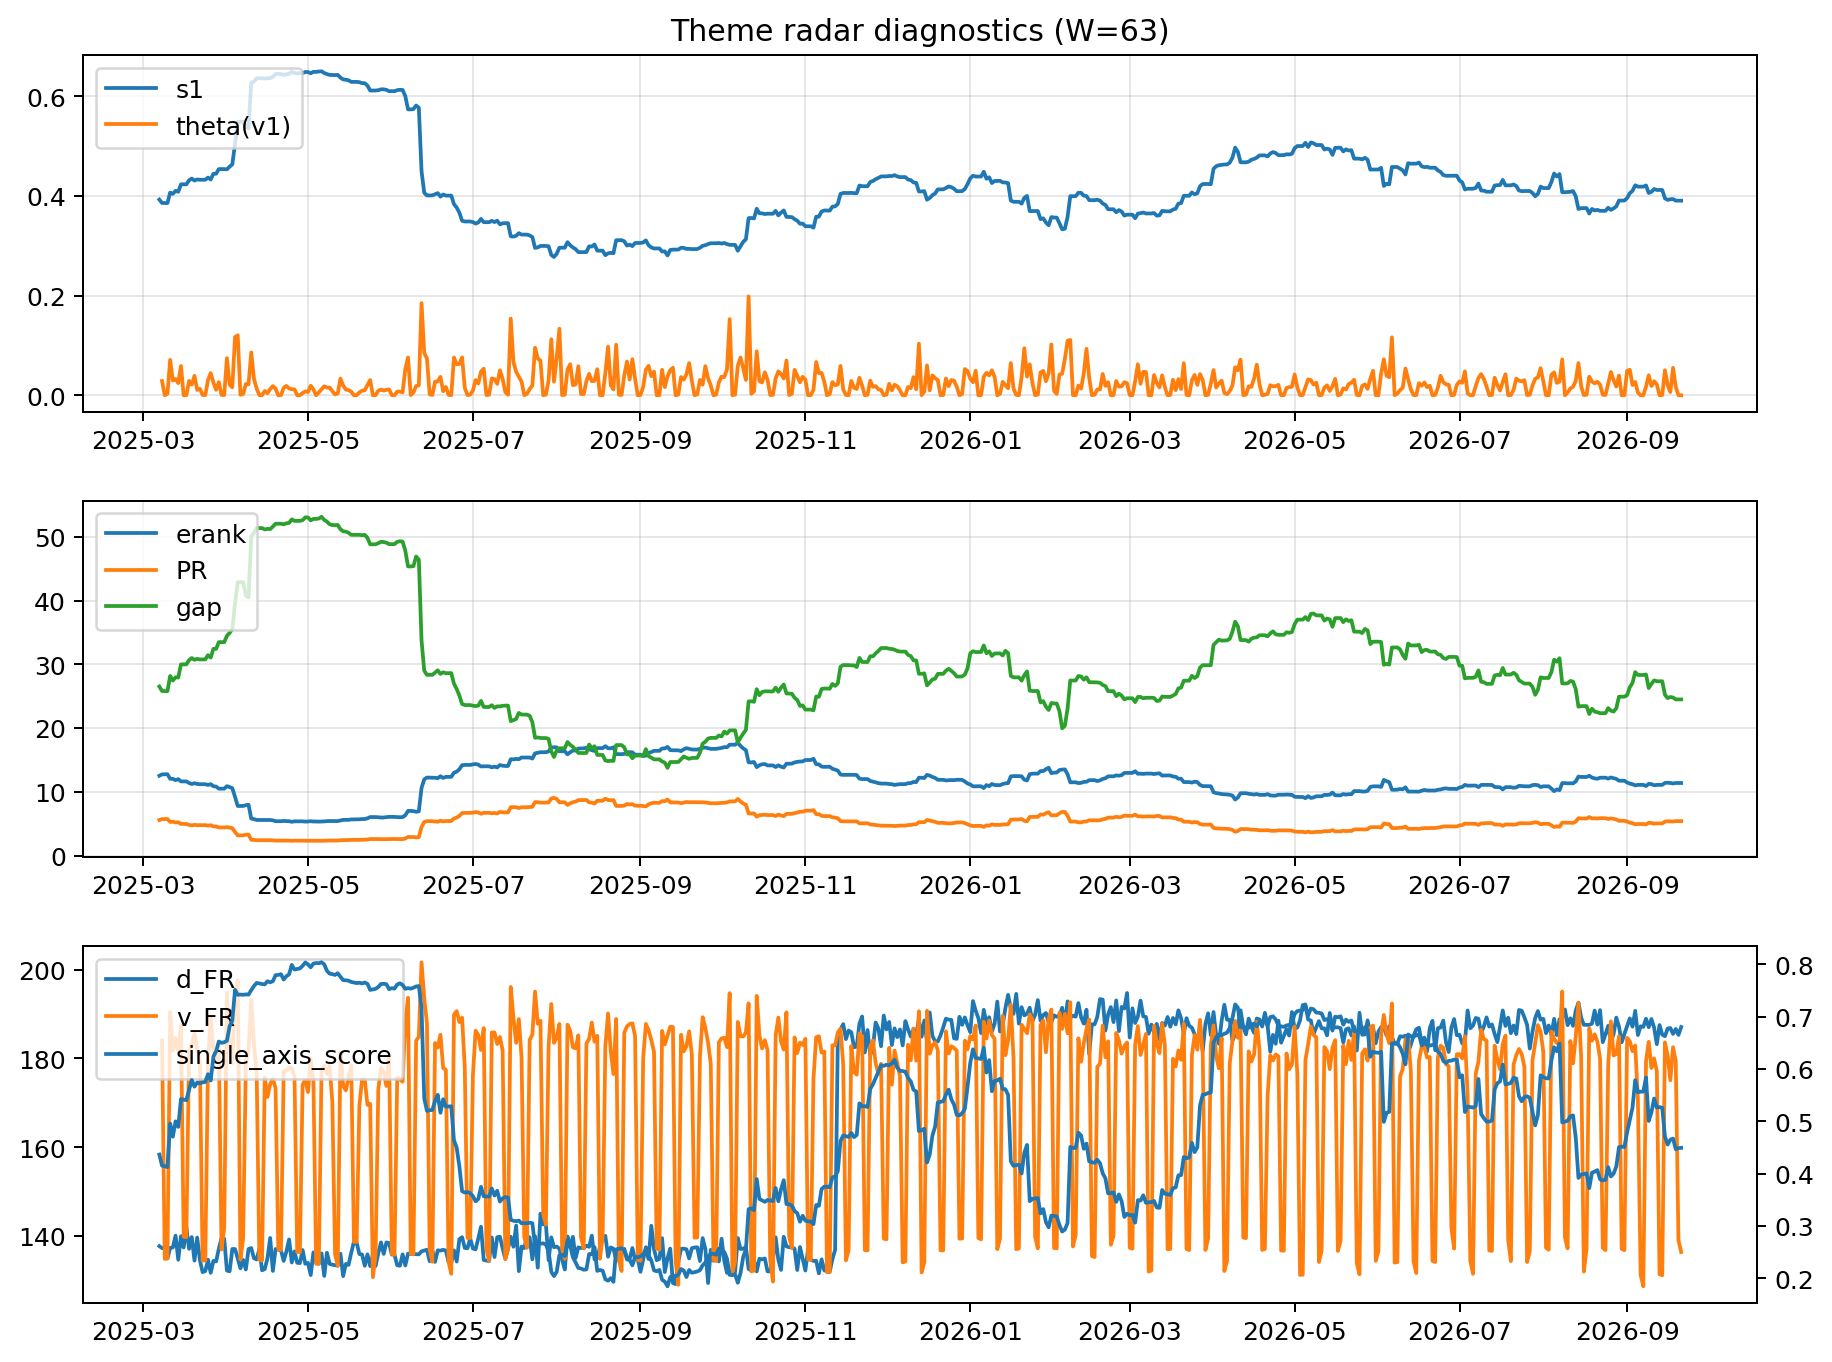
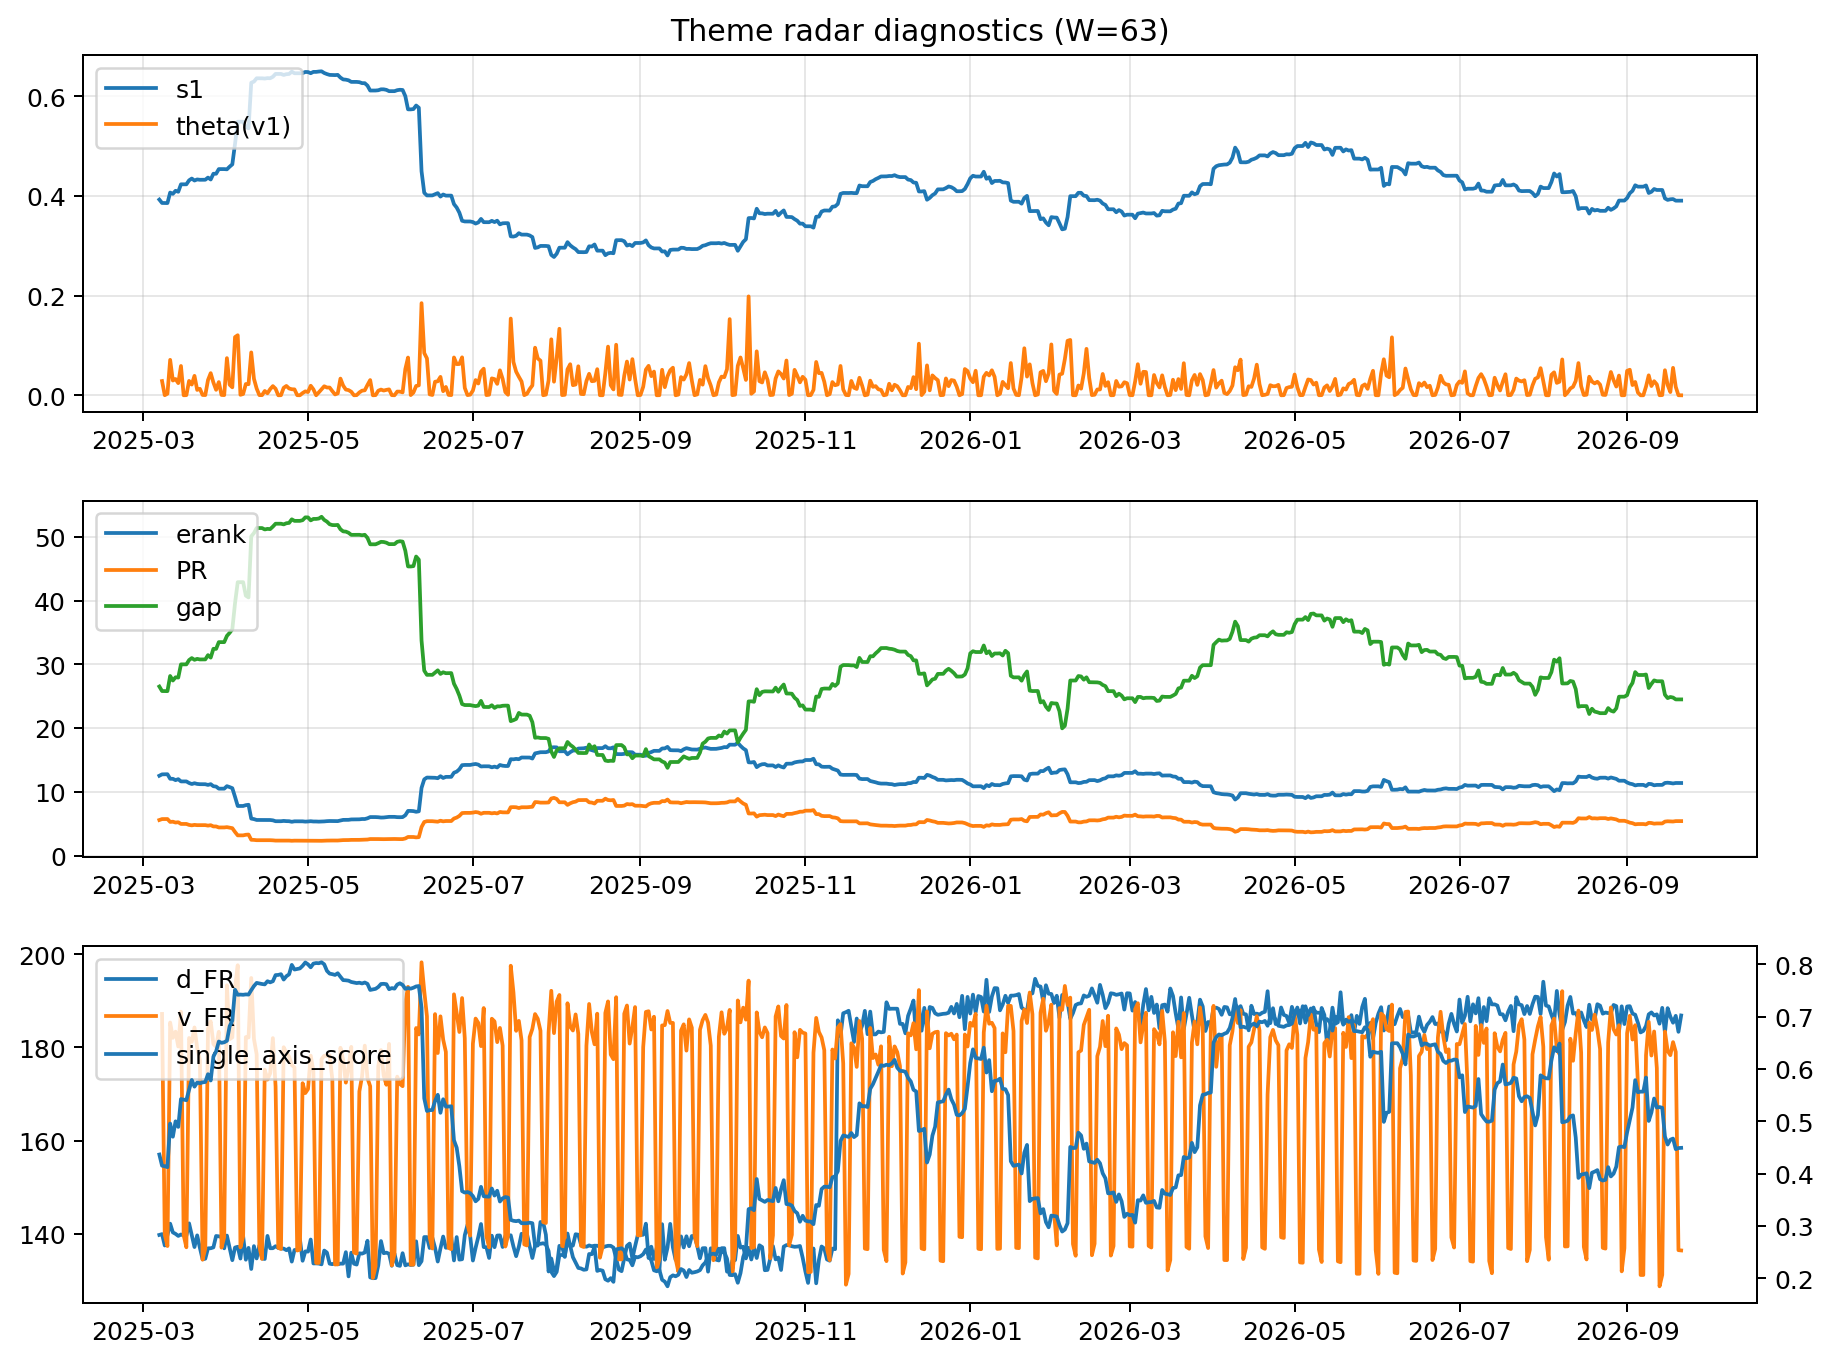
log: 2026-09-21 | sha256:9a4d1bd2f492fd0dd62422c1a9d6bbd453368d618979393353d2efe5f77e93bc

diff --git a/logs/2026-09-21.md b/logs/2026-09-21.md
@@ -3,43 +3,43 @@
 ![diagnostic W63](../assets/diagnostic/2026-09-21_W63.png)
 
 ## Leaders (v1) — W=63
-- **Nuclear_Uranium** (0.084369395124881)
-- Semis (0.069141489910742)
-- Quantum (0.0642081621970611)
+- **Nuclear_Uranium** (0.0843694006705543)
+- Semis (0.0691414972813267)
+- Quantum (0.0642081675886223)
 
 ## Challengers — W=63
-**v2:** Rates (0.0899068250339465), Semis (0.0861035523683105), Genomics_Bio (0.0760062591350897)
-**v3:** Metals (0.0841293631259753), Crypto (0.0713645313723901), Genomics_Bio (0.0656935642717184)
+**v2:** Rates (0.0899068135962194), Semis (0.0861035559067978), Genomics_Bio (0.0760063360952733)
+**v3:** Metals (0.084129360049723), Crypto (0.0713645423921613), Genomics_Bio (0.0656936034888413)
 
 ## Migration (20D slope) — W=63
 **Top risers:**
-- axis_DataCenter_Infra: 0.0005558068369868
-- axis_Genomics_Bio: 0.0003477886150235
-- axis_MegaCap_AI: 0.0002270214379116
-- axis_Equity_US: 0.0001494441007991
-- axis_Robotics: 0.0001048879028198
-- axis_Sector_Materials: 8.517075083291965e-05
-- axis_Space: 8.431612054911172e-05
-- axis_Quantum: 8.001120967760017e-05
-- axis_Sector_Fin: 7.21988903390381e-05
-- axis_Drones_Autonomy: 7.090082606086338e-05
+- axis_DataCenter_Infra: 0.0005558068498286
+- axis_Genomics_Bio: 0.0003477886386279
+- axis_MegaCap_AI: 0.0002270214569302
+- axis_Equity_US: 0.0001494439085968
+- axis_Robotics: 0.0001048877870583
+- axis_Sector_Materials: 8.517053429978305e-05
+- axis_Space: 8.431621269471604e-05
+- axis_Quantum: 8.00113170085703e-05
+- axis_Sector_Fin: 7.219863352407612e-05
+- axis_Drones_Autonomy: 7.090084076843571e-05
 
 **Top fallers:**
-- axis_Defense: -9.938329614556796e-05
-- axis_Metals: -0.0001178032947184
-- axis_Software_Cloud: -0.0001266248757635
-- axis_Sector_Health: -0.0001628439667457
-- axis_Sector_ConsStap: -0.0001695191448786
-- axis_Sector_RealEstate: -0.0002431296342301
-- axis_Sector_Energy: -0.0002740569841704
-- axis_Nuclear_Uranium: -0.000319393166659
-- axis_Crypto: -0.000346699616003
-- axis_Cyber: -0.0004044776110746
+- axis_Defense: -9.938340672640152e-05
+- axis_Metals: -0.000117803674388
+- axis_Software_Cloud: -0.0001266251293766
+- axis_Sector_Health: -0.0001628438086311
+- axis_Sector_ConsStap: -0.0001695190455477
+- axis_Sector_RealEstate: -0.000243129539788
+- axis_Sector_Energy: -0.0002740570684927
+- axis_Nuclear_Uranium: -0.0003193932527034
+- axis_Crypto: -0.0003466998018256
+- axis_Cyber: -0.0004044777308983
 
 ## Risk line (W=63)
-- s1: 0.3904194956175167
-- theta_v1: 3.6387219936523454e-06
-- v_FR: 136.35306803166478
+- s1: 0.3904194648829023
+- theta_v1: 3.638660970450455e-06
+- v_FR: 136.45686004467314
 - single_axis_score: 0.449290780141844
 
 ## Interpretation
@@ -51,4 +51,4 @@
 - Percentiles (W=63 history): vfr_pct=0.13, theta_pct=0.00, s1_pct=0.38, score_pct=0.40.
 
 ---
[2 lines of base64/hex data omitted]
